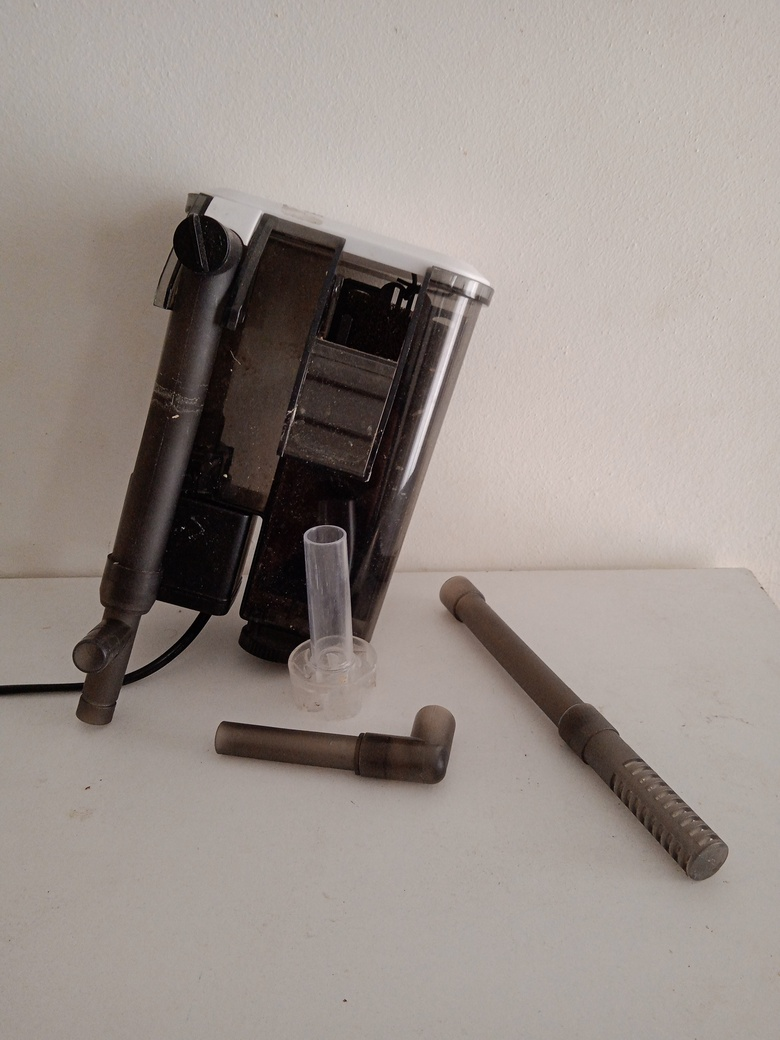
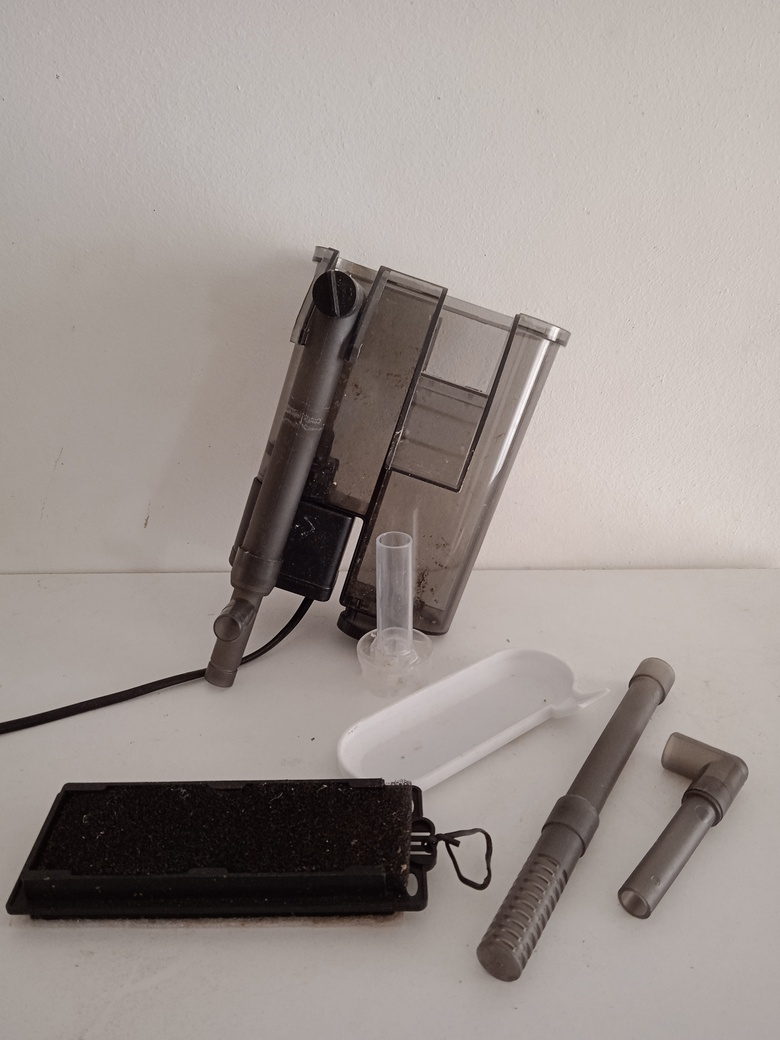
database update

diff --git a/db/_posts/2025-02-10-filtration.md b/db/_posts/2025-02-10-filtration.md
@@ -103,9 +103,9 @@ The HOB filter is a box that you hang on your tank. It has an inlet tube that pu
 
 The HOB filter is the way to go if you want to do an aquascaping tank. It gives you clear access to all your tank, which makes plant maintenance easier.
 
->Instead of using the provided cartridges, replace them with a sponge and filter media like lava rock or the provided media. That way, you have the same benefits and you save money not buying new cartridges every now and then. 
+>Instead of using the provided cartridges, replace them with a sponge and filter media like lava rock. That way, you have the same filtration benefits and you save money not buying new cartridges every now and then. 
 >
->Another great tip is to add a sponge n the filter's intake. This prevents things from getting into the propeller and adds more surface area for the beneficial bacteria.
+>Another great tip is to add a sponge on the filter's intake. This prevents things from getting into the propeller and adds more surface area for the beneficial bacteria.
 
 **Canister filter**
 
